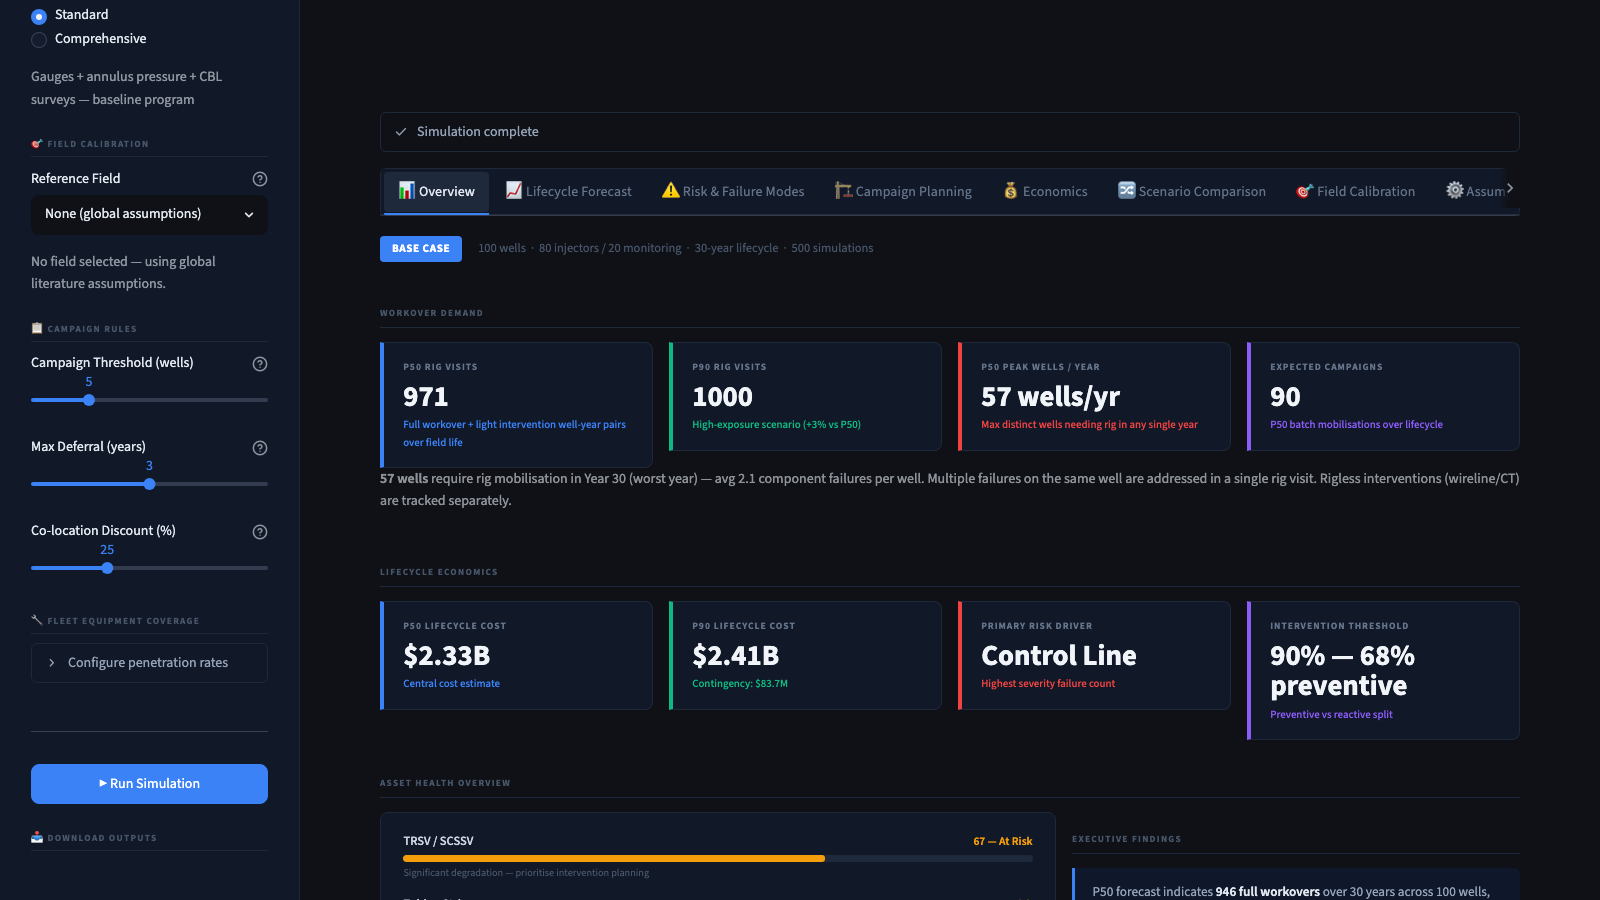
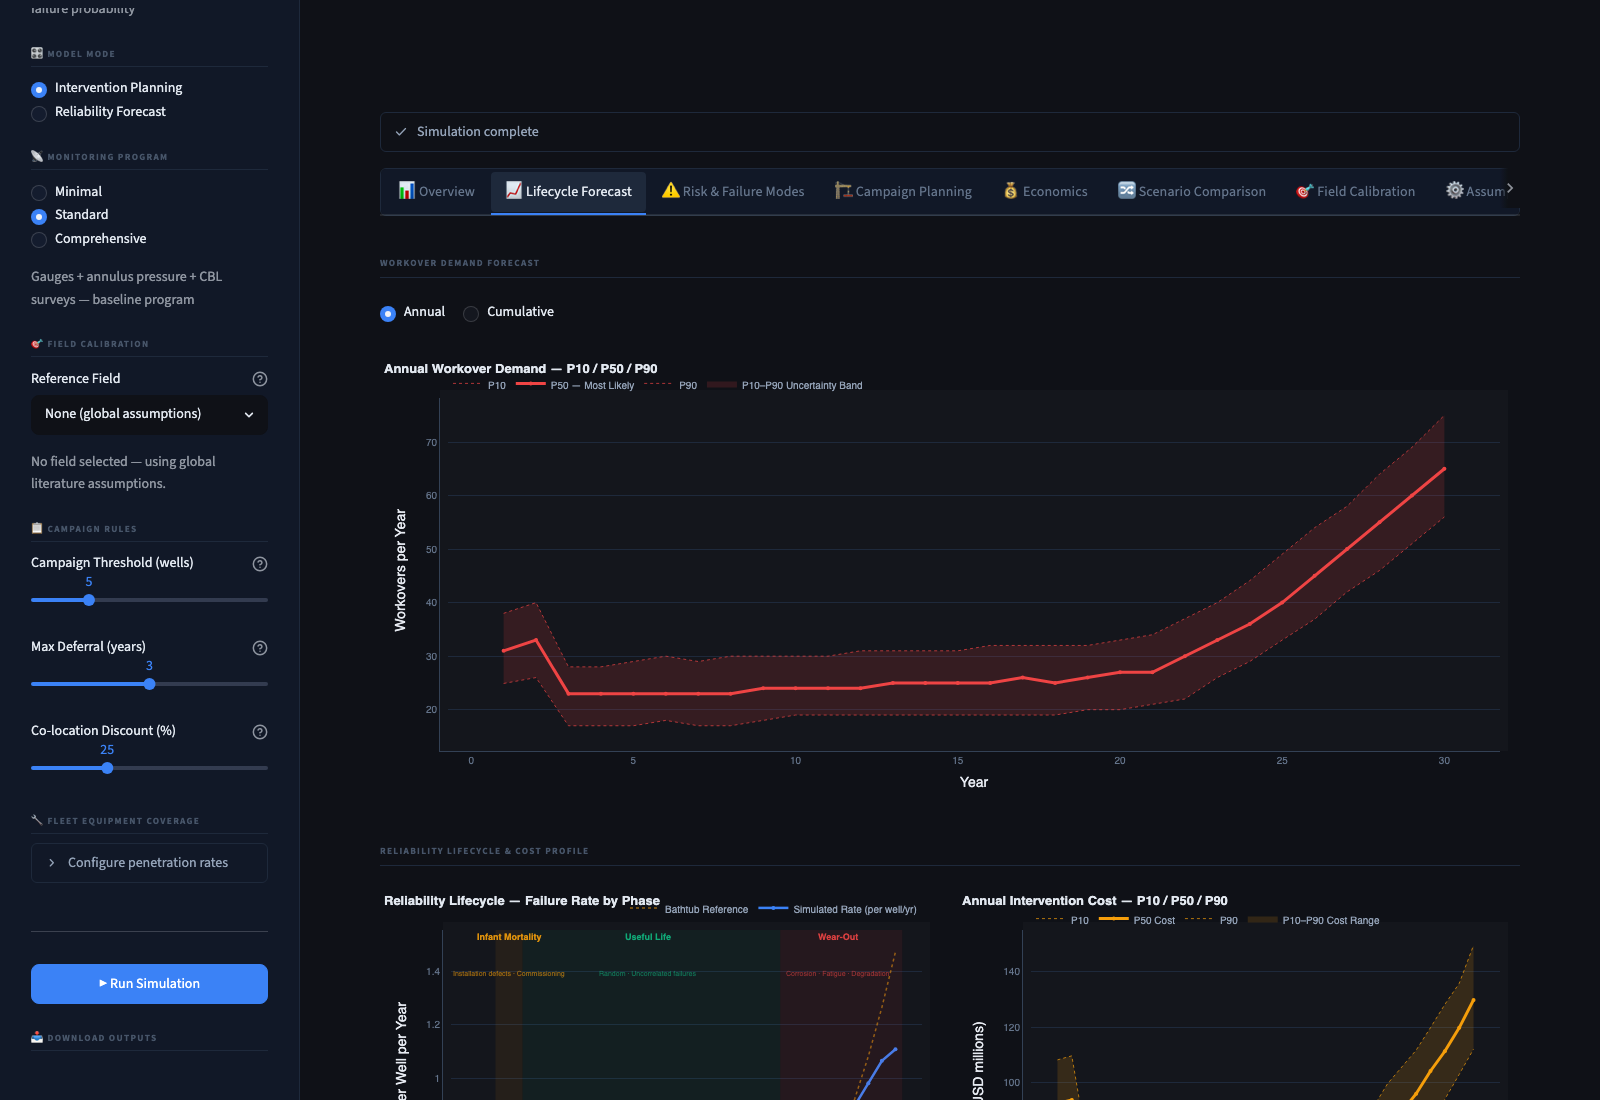
Update portfolio screenshot to Lifecycle Forecast tab showing fan charts

diff --git a/README.md b/README.md
@@ -20,9 +20,9 @@ It produces P10/P50/P90 workover demand, lifecycle cost distributions, campaign 
 
 ## Screenshots
 
-**Portfolio Overview** — P10/P50/P90 workover demand, lifecycle economics, and asset health after running the simulation.
+**Lifecycle Forecast** — P10/P50/P90 annual workover demand fan chart with bathtub curve and cost profile.
 
-![Portfolio Overview](docs/screenshot_portfolio.png)
+![Lifecycle Forecast](docs/screenshot_portfolio.png)
 
 **Well Journey** — Single-well operational history: component health evolution, intervention timeline, and cost breakdown for one stochastic scenario.
 